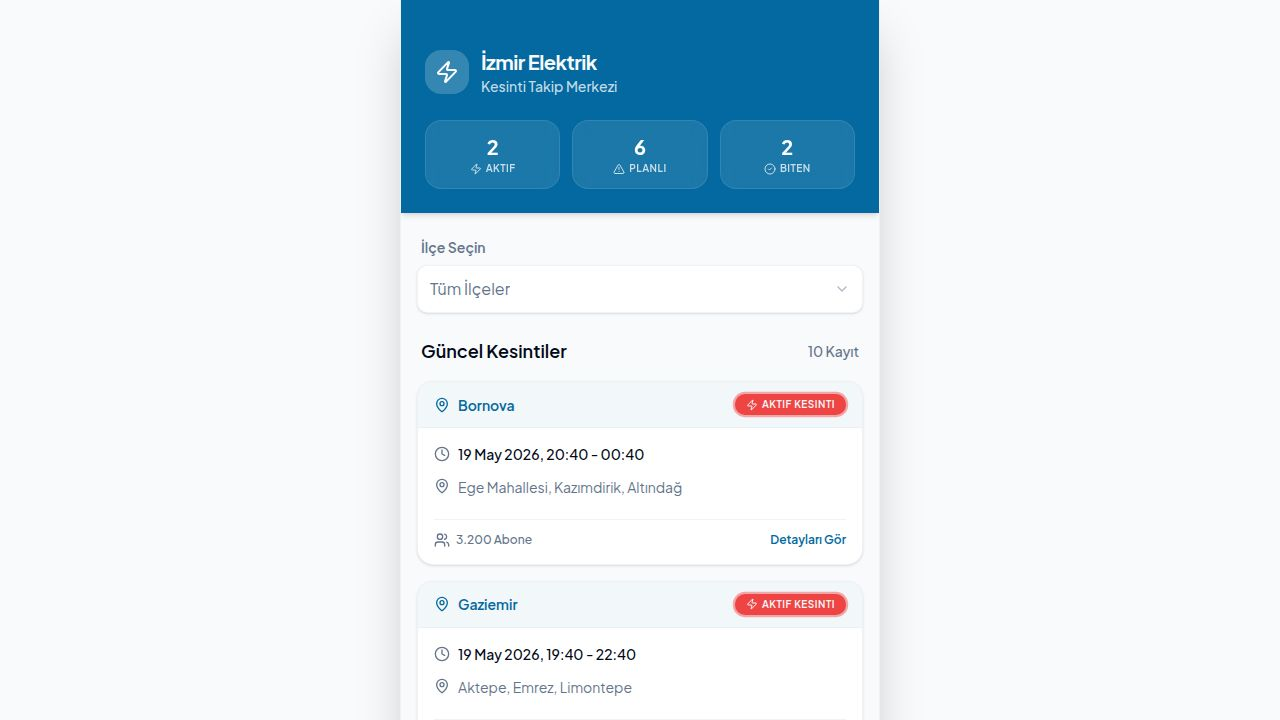
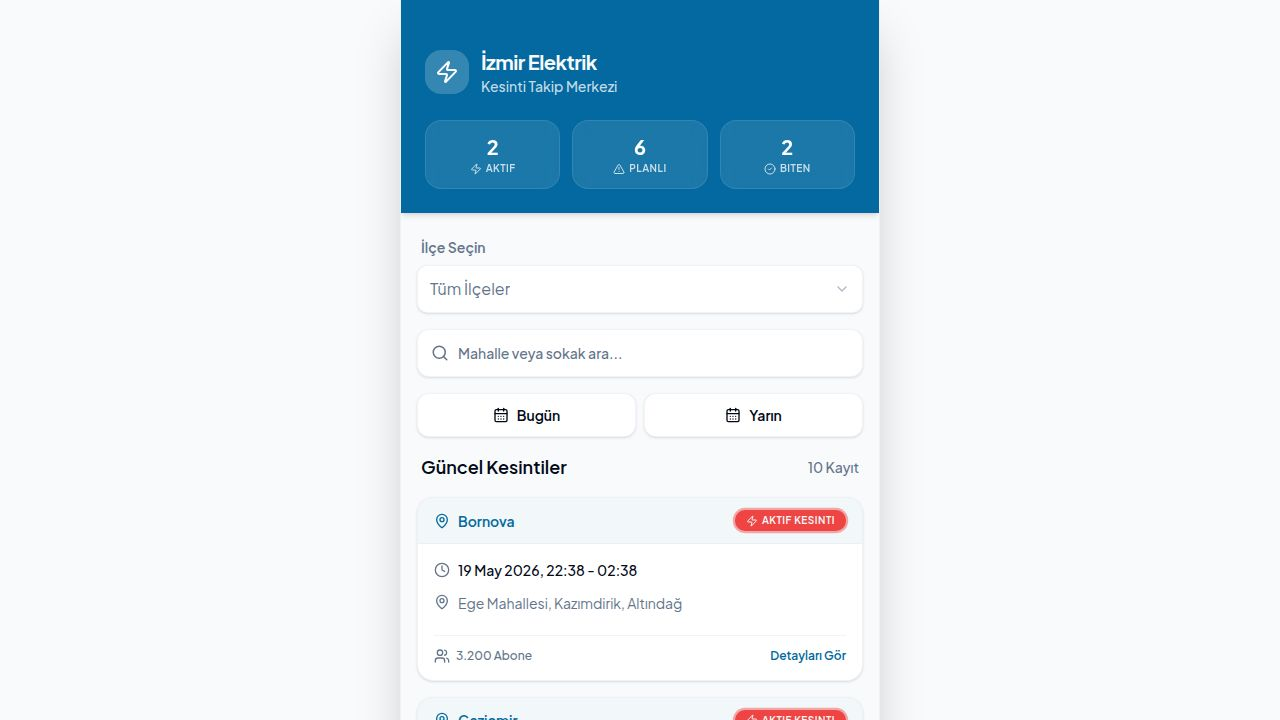
Add tab navigation and map view for outage tracking
Add tab navigation for "Kesinti Listesi" and "Canlı Harita". Embeds a Google My Maps iframe for the live map view.

Replit-Commit-Author: Agent
Replit-Commit-Session-Id: 54eb6731-9cb9-4f60-92e1-2c5064a0069a
Replit-Commit-Checkpoint-Type: full_checkpoint
Replit-Commit-Event-Id: 66a4b1f3-4c49-4fc5-ada9-bab1f7408294
Replit-Commit-Screenshot-Url: https://storage.googleapis.com/screenshot-production-us-central1/e1f0a643-0350-4ff0-bfbf-1928db9b140c/54eb6731-9cb9-4f60-92e1-2c5064a0069a/2sxBHA4
Replit-Helium-Checkpoint-Created: true

diff --git a/artifacts/izmir-elektrik/src/pages/home.tsx b/artifacts/izmir-elektrik/src/pages/home.tsx
@@ -12,6 +12,9 @@ import {
   Search,
   CalendarDays,
   X,
+  List,
+  Map,
+  ExternalLink,
 } from "lucide-react";
 import {
   Select,
@@ -25,8 +28,12 @@ import { OutageCard } from "@/components/outage-card";
 import { isSameDay, addDays, parseISO } from "date-fns";
 
 type DateFilter = "bugun" | "yarin" | null;
+type ActiveTab = "liste" | "harita";
+
+const MAP_SHARE_URL = "https://share.google/uW2zatmZZPIqKlfuS";
 
 export default function Home() {
+  const [activeTab, setActiveTab] = useState<ActiveTab>("liste");
   const [selectedDistrict, setSelectedDistrict] = useState<string>("");
   const [searchQuery, setSearchQuery] = useState<string>("");
   const [dateFilter, setDateFilter] = useState<DateFilter>(null);
@@ -50,17 +57,17 @@ export default function Home() {
 
     if (searchQuery.trim()) {
       const q = searchQuery.trim().toLowerCase();
-      result = result.filter((o) =>
-        o.neighborhoods.some((n) => n.toLowerCase().includes(q)) ||
-        o.reason.toLowerCase().includes(q) ||
-        o.district.toLowerCase().includes(q)
+      result = result.filter(
+        (o) =>
+          o.neighborhoods.some((n) => n.toLowerCase().includes(q)) ||
+          o.reason.toLowerCase().includes(q) ||
+          o.district.toLowerCase().includes(q),
       );
     }
 
     if (dateFilter) {
       const today = new Date();
-      const targetDate =
-        dateFilter === "bugun" ? today : addDays(today, 1);
+      const targetDate = dateFilter === "bugun" ? today : addDays(today, 1);
       result = result.filter((o) => {
         const start = parseISO(o.startTime);
         const end = parseISO(o.endTime);
@@ -85,8 +92,8 @@ export default function Home() {
   return (
     <div className="min-h-[100dvh] flex flex-col bg-slate-50 dark:bg-background">
       {/* Header */}
-      <header className="bg-primary text-primary-foreground pt-12 pb-6 px-6 shadow-md relative z-10">
-        <div className="flex items-center gap-3 mb-6">
+      <header className="bg-primary text-primary-foreground pt-12 pb-5 px-6 shadow-md relative z-10">
+        <div className="flex items-center gap-3 mb-5">
           <div className="bg-white/20 p-2.5 rounded-xl backdrop-blur-sm">
             <Zap className="h-6 w-6 text-white" />
           </div>
@@ -98,7 +105,7 @@ export default function Home() {
           </div>
         </div>
 
-        {/* Summary Stats Bar */}
+        {/* Summary Stats */}
         <div className="grid grid-cols-3 gap-3">
           <div className="bg-white/10 rounded-xl p-3 backdrop-blur-sm border border-white/10 flex flex-col items-center justify-center">
             {isLoadingSummary ? (
@@ -137,137 +144,205 @@ export default function Home() {
             </span>
           </div>
         </div>
+
+        {/* Tab Bar — lives inside header so it overlaps the content edge */}
+        <div className="mt-5 -mx-6 -mb-5 px-6 pt-1 pb-0 flex border-t border-white/10">
+          <button
+            onClick={() => setActiveTab("liste")}
+            data-testid="tab-liste"
+            className={`flex items-center gap-2 px-4 pb-4 pt-2 text-sm font-semibold border-b-2 transition-all ${
+              activeTab === "liste"
+                ? "border-white text-white"
+                : "border-transparent text-primary-foreground/55 hover:text-primary-foreground/80"
+            }`}
+          >
+            <List className="h-4 w-4" />
+            Kesinti Listesi
+          </button>
+          <button
+            onClick={() => setActiveTab("harita")}
+            data-testid="tab-harita"
+            className={`flex items-center gap-2 px-4 pb-4 pt-2 text-sm font-semibold border-b-2 transition-all ${
+              activeTab === "harita"
+                ? "border-white text-white"
+                : "border-transparent text-primary-foreground/55 hover:text-primary-foreground/80"
+            }`}
+          >
+            <Map className="h-4 w-4" />
+            Canlı Harita
+          </button>
+        </div>
       </header>
 
-      {/* Main Content */}
-      <main className="flex-1 px-4 py-6 flex flex-col gap-4">
-
-        {/* District Dropdown */}
-        <div className="flex flex-col gap-2">
-          <label className="text-sm font-semibold text-muted-foreground px-1">
-            İlçe Seçin
-          </label>
-          <Select
-            value={selectedDistrict}
-            onValueChange={setSelectedDistrict}
-            disabled={isLoadingDistricts}
-          >
-            <SelectTrigger
-              className="w-full bg-white h-12 shadow-sm border-border/50 text-base"
-              data-testid="select-district"
+      {/* Tab: Liste */}
+      {activeTab === "liste" && (
+        <main className="flex-1 px-4 py-6 flex flex-col gap-4">
+          {/* District Dropdown */}
+          <div className="flex flex-col gap-2">
+            <label className="text-sm font-semibold text-muted-foreground px-1">
+              İlçe Seçin
+            </label>
+            <Select
+              value={selectedDistrict}
+              onValueChange={setSelectedDistrict}
+              disabled={isLoadingDistricts}
             >
-              <SelectValue placeholder="Tüm İlçeler" />
-            </SelectTrigger>
-            <SelectContent>
-              <SelectItem value="all">Tüm İlçeler</SelectItem>
-              {districts?.map((d) => (
-                <SelectItem key={d.name} value={d.name}>
-                  {d.name}{" "}
-                  <span className="text-muted-foreground ml-1 text-xs">
-                    ({d.activeCount + d.plannedCount})
-                  </span>
-                </SelectItem>
-              ))}
-            </SelectContent>
-          </Select>
-        </div>
+              <SelectTrigger
+                className="w-full bg-white h-12 shadow-sm border-border/50 text-base"
+                data-testid="select-district"
+              >
+                <SelectValue placeholder="Tüm İlçeler" />
+              </SelectTrigger>
+              <SelectContent>
+                <SelectItem value="all">Tüm İlçeler</SelectItem>
+                {districts?.map((d) => (
+                  <SelectItem key={d.name} value={d.name}>
+                    {d.name}{" "}
+                    <span className="text-muted-foreground ml-1 text-xs">
+                      ({d.activeCount + d.plannedCount})
+                    </span>
+                  </SelectItem>
+                ))}
+              </SelectContent>
+            </Select>
+          </div>
 
-        {/* Search Input */}
-        <div className="relative">
-          <Search className="absolute left-3.5 top-1/2 -translate-y-1/2 h-4.5 w-4.5 text-muted-foreground pointer-events-none h-[18px] w-[18px]" />
-          <input
-            type="text"
-            value={searchQuery}
-            onChange={(e) => setSearchQuery(e.target.value)}
-            placeholder="Mahalle veya sokak ara..."
-            data-testid="input-search"
-            className="w-full h-12 pl-10 pr-10 rounded-lg border border-border/50 bg-white shadow-sm text-sm font-medium placeholder:text-muted-foreground focus:outline-none focus:ring-2 focus:ring-primary/30 focus:border-primary transition-all"
-          />
-          {searchQuery && (
-            <button
-              onClick={() => setSearchQuery("")}
-              data-testid="button-clear-search"
-              className="absolute right-3 top-1/2 -translate-y-1/2 text-muted-foreground hover:text-foreground transition-colors p-0.5 rounded"
-            >
-              <X className="h-4 w-4" />
-            </button>
-          )}
-        </div>
-
-        {/* Date Filter Buttons */}
-        <div className="flex gap-2">
-          <button
-            onClick={() => setDateFilter(dateFilter === "bugun" ? null : "bugun")}
-            data-testid="button-filter-bugun"
-            className={`flex-1 h-11 rounded-lg border text-sm font-semibold flex items-center justify-center gap-2 transition-all ${
-              dateFilter === "bugun"
-                ? "bg-primary text-primary-foreground border-primary shadow-md"
-                : "bg-white text-foreground border-border/50 hover:border-primary/40 hover:bg-primary/5 shadow-sm"
-            }`}
-          >
-            <CalendarDays className="h-4 w-4" />
-            Bugün
-          </button>
-          <button
-            onClick={() => setDateFilter(dateFilter === "yarin" ? null : "yarin")}
-            data-testid="button-filter-yarin"
-            className={`flex-1 h-11 rounded-lg border text-sm font-semibold flex items-center justify-center gap-2 transition-all ${
-              dateFilter === "yarin"
-                ? "bg-primary text-primary-foreground border-primary shadow-md"
-                : "bg-white text-foreground border-border/50 hover:border-primary/40 hover:bg-primary/5 shadow-sm"
-            }`}
-          >
-            <CalendarDays className="h-4 w-4" />
-            Yarın
-          </button>
-        </div>
-
-        {/* Active Filters + Clear */}
-        {hasActiveFilters && (
-          <button
-            onClick={clearAllFilters}
-            data-testid="button-clear-all-filters"
-            className="self-start flex items-center gap-1.5 text-xs font-semibold text-primary bg-primary/8 hover:bg-primary/15 px-3 py-1.5 rounded-full transition-colors"
-          >
-            <X className="h-3.5 w-3.5" />
-            Filtreleri Temizle
-          </button>
-        )}
-
-        {/* List */}
-        <div className="flex flex-col gap-4 pb-12">
-          <div className="flex items-center justify-between px-1">
-            <h2 className="font-semibold text-lg">Güncel Kesintiler</h2>
-            {!isLoadingOutages && (
-              <span className="text-sm text-muted-foreground font-medium">
-                {filteredOutages.length} Kayıt
-              </span>
+          {/* Search Input */}
+          <div className="relative">
+            <Search className="absolute left-3.5 top-1/2 -translate-y-1/2 text-muted-foreground pointer-events-none h-[18px] w-[18px]" />
+            <input
+              type="text"
+              value={searchQuery}
+              onChange={(e) => setSearchQuery(e.target.value)}
+              placeholder="Mahalle veya sokak ara..."
+              data-testid="input-search"
+              className="w-full h-12 pl-10 pr-10 rounded-lg border border-border/50 bg-white shadow-sm text-sm font-medium placeholder:text-muted-foreground focus:outline-none focus:ring-2 focus:ring-primary/30 focus:border-primary transition-all"
+            />
+            {searchQuery && (
+              <button
+                onClick={() => setSearchQuery("")}
+                data-testid="button-clear-search"
+                className="absolute right-3 top-1/2 -translate-y-1/2 text-muted-foreground hover:text-foreground transition-colors p-0.5 rounded"
+              >
+                <X className="h-4 w-4" />
+              </button>
             )}
           </div>
 
-          {isLoadingOutages ? (
-            Array.from({ length: 4 }).map((_, i) => (
-              <Skeleton key={i} className="h-40 w-full rounded-xl" />
-            ))
-          ) : filteredOutages.length === 0 ? (
-            <div className="flex flex-col items-center justify-center py-16 px-4 text-center bg-white rounded-xl border border-border/50 border-dashed">
-              <div className="bg-primary/5 p-4 rounded-full mb-4">
-                <Search className="h-8 w-8 text-primary/40" />
-              </div>
-              <h3 className="font-semibold text-lg mb-1">Kayıt Bulunamadı</h3>
-              <p className="text-muted-foreground text-sm">
-                {searchQuery
-                  ? `"${searchQuery}" için sonuç bulunamadı.`
-                  : "Seçili filtreler için planlı veya aktif bir kesinti bulunmuyor."}
-              </p>
-            </div>
-          ) : (
-            filteredOutages.map((outage) => (
-              <OutageCard key={outage.id} outage={outage} />
-            ))
+          {/* Date Filter Buttons */}
+          <div className="flex gap-2">
+            <button
+              onClick={() =>
+                setDateFilter(dateFilter === "bugun" ? null : "bugun")
+              }
+              data-testid="button-filter-bugun"
+              className={`flex-1 h-11 rounded-lg border text-sm font-semibold flex items-center justify-center gap-2 transition-all ${
+                dateFilter === "bugun"
+                  ? "bg-primary text-primary-foreground border-primary shadow-md"
+                  : "bg-white text-foreground border-border/50 hover:border-primary/40 hover:bg-primary/5 shadow-sm"
+              }`}
+            >
+              <CalendarDays className="h-4 w-4" />
+              Bugün
+            </button>
+            <button
+              onClick={() =>
+                setDateFilter(dateFilter === "yarin" ? null : "yarin")
+              }
+              data-testid="button-filter-yarin"
+              className={`flex-1 h-11 rounded-lg border text-sm font-semibold flex items-center justify-center gap-2 transition-all ${
+                dateFilter === "yarin"
+                  ? "bg-primary text-primary-foreground border-primary shadow-md"
+                  : "bg-white text-foreground border-border/50 hover:border-primary/40 hover:bg-primary/5 shadow-sm"
+              }`}
+            >
+              <CalendarDays className="h-4 w-4" />
+              Yarın
+            </button>
+          </div>
+
+          {/* Clear All Filters */}
+          {hasActiveFilters && (
+            <button
+              onClick={clearAllFilters}
+              data-testid="button-clear-all-filters"
+              className="self-start flex items-center gap-1.5 text-xs font-semibold text-primary bg-primary/8 hover:bg-primary/15 px-3 py-1.5 rounded-full transition-colors"
+            >
+              <X className="h-3.5 w-3.5" />
+              Filtreleri Temizle
+            </button>
           )}
+
+          {/* Outage List */}
+          <div className="flex flex-col gap-4 pb-12">
+            <div className="flex items-center justify-between px-1">
+              <h2 className="font-semibold text-lg">Güncel Kesintiler</h2>
+              {!isLoadingOutages && (
+                <span className="text-sm text-muted-foreground font-medium">
+                  {filteredOutages.length} Kayıt
+                </span>
+              )}
+            </div>
+
+            {isLoadingOutages ? (
+              Array.from({ length: 4 }).map((_, i) => (
+                <Skeleton key={i} className="h-40 w-full rounded-xl" />
+              ))
+            ) : filteredOutages.length === 0 ? (
+              <div className="flex flex-col items-center justify-center py-16 px-4 text-center bg-white rounded-xl border border-border/50 border-dashed">
+                <div className="bg-primary/5 p-4 rounded-full mb-4">
+                  <Search className="h-8 w-8 text-primary/40" />
+                </div>
+                <h3 className="font-semibold text-lg mb-1">Kayıt Bulunamadı</h3>
+                <p className="text-muted-foreground text-sm">
+                  {searchQuery
+                    ? `"${searchQuery}" için sonuç bulunamadı.`
+                    : "Seçili filtreler için planlı veya aktif bir kesinti bulunmuyor."}
+                </p>
+              </div>
+            ) : (
+              filteredOutages.map((outage) => (
+                <OutageCard key={outage.id} outage={outage} />
+              ))
+            )}
+          </div>
+        </main>
+      )}
+
+      {/* Tab: Harita */}
+      {activeTab === "harita" && (
+        <div className="flex-1 flex flex-col" data-testid="tab-panel-harita">
+          {/* Map iframe — fills all remaining space */}
+          <div className="flex-1 relative bg-slate-100">
+            <iframe
+              src={MAP_SHARE_URL}
+              title="GDZ Elektrik Canlı Kesinti Haritası"
+              data-testid="iframe-map"
+              allowFullScreen
+              loading="lazy"
+              referrerPolicy="no-referrer-when-downgrade"
+              className="absolute inset-0 w-full h-full border-0"
+            />
+          </div>
+
+          {/* Footer strip with external link */}
+          <div className="flex items-center justify-between px-4 py-3 bg-white border-t border-border/40 shrink-0">
+            <span className="text-xs text-muted-foreground font-medium">
+              GDZ Elektrik — Resmi Kesinti Haritası
+            </span>
+            <a
+              href={MAP_SHARE_URL}
+              target="_blank"
+              rel="noopener noreferrer"
+              data-testid="link-open-map"
+              className="flex items-center gap-1.5 text-xs font-semibold text-primary hover:underline underline-offset-2"
+            >
+              <ExternalLink className="h-3.5 w-3.5" />
+              Haritayı Aç
+            </a>
+          </div>
         </div>
-      </main>
+      )}
     </div>
   );
 }
